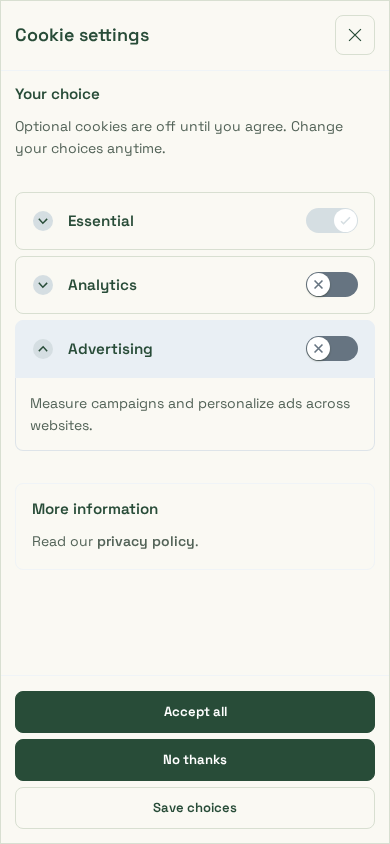
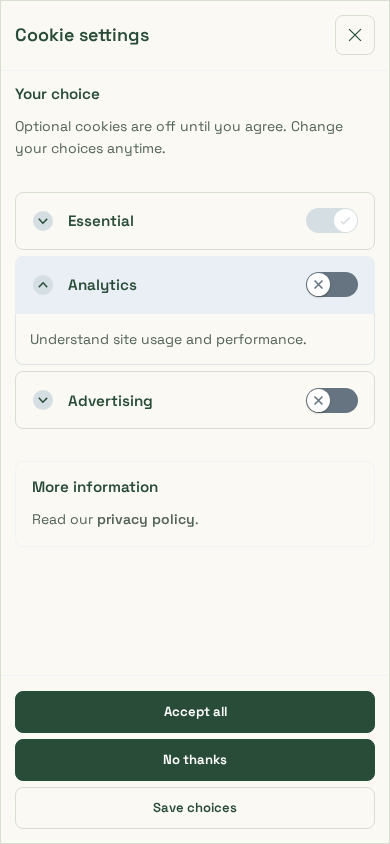
fix(website): shorten analytics consent description

Changed region(s): [[0.0615, 0.3697, 0.9231, 0.5237], [0.0615, 0.5545, 0.5231, 0.6469], [0.0615, 0.4005, 0.5231, 0.4313]]

diff --git a/packages/website/src/lib/cookie-consent.ts b/packages/website/src/lib/cookie-consent.ts
@@ -178,8 +178,7 @@ export function initializeCookieConsent(
               {
                 title: "Analytics",
                 linkedCategory: "analytics",
-                description:
-                  "Understand site usage and performance, including masked session recordings.",
+                description: "Understand site usage and performance.",
               },
               {
                 title: "Advertising",

diff --git a/documentation/design/screenshots/cookie-consent/README.md b/documentation/design/screenshots/cookie-consent/README.md
@@ -9,6 +9,10 @@ unchanged; no customer data or new fixture images are included.
 - [Mobile notice](mobile.png)
 - [Mobile preferences](preferences.png)
 
+The preferences capture reflects the owner's shorter Analytics description:
+"Understand site usage and performance." It was refreshed from the local
+production build on 22 October 2026, at 390 × 844 in Chromium.
+
 The compact notice has equally accessible Accept all and No thanks actions.
 Settings separates analytics from advertising. Optional collection starts only
 after consent, respects browser privacy signals and fails closed when storage is
